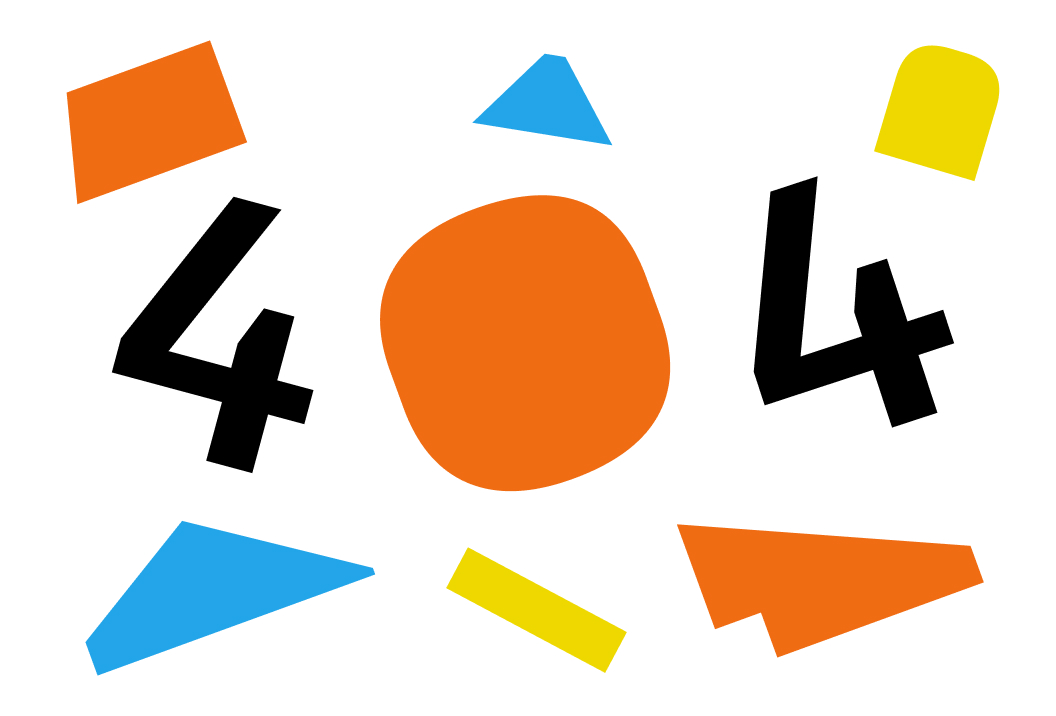
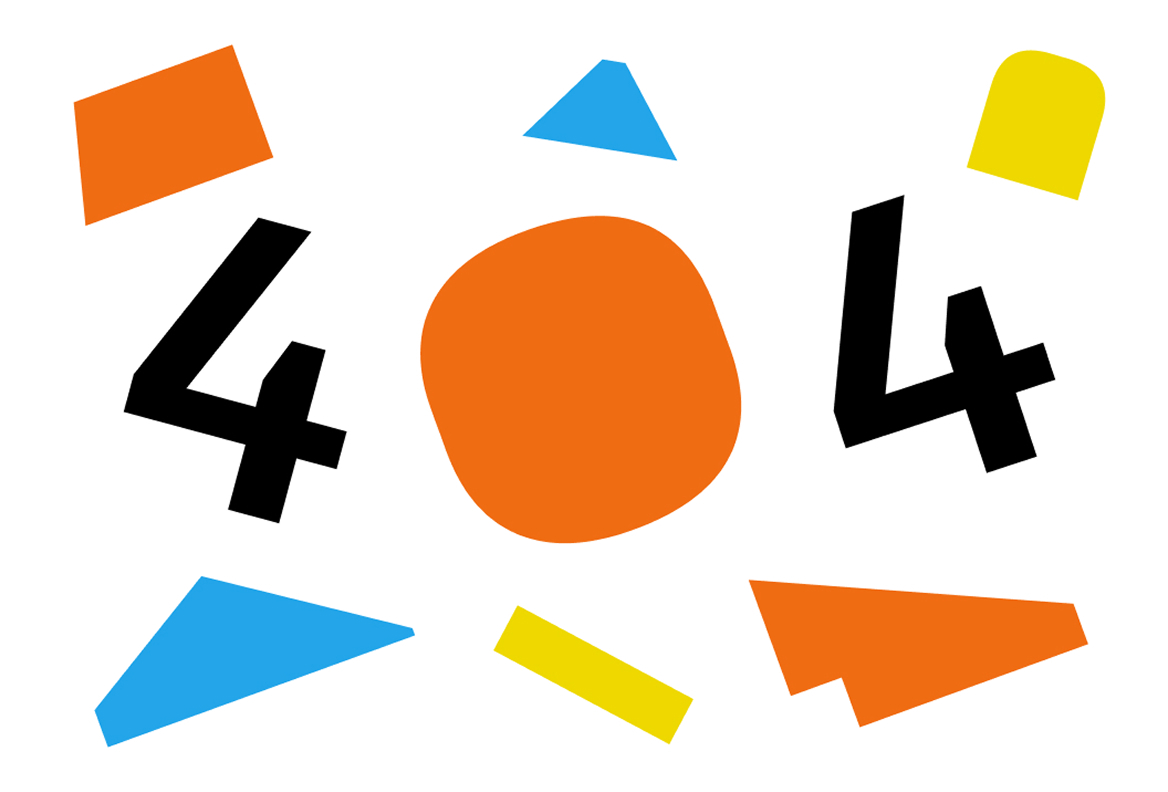
Address 404 page PR feedback

diff --git a/foundation_cms/templates/404.html b/foundation_cms/templates/404.html
@@ -11,7 +11,6 @@
 {% block body_class %}template-404{% endblock body_class %}
 {% block breadcrumbs %}{% endblock breadcrumbs %}
 {% block content %}
-    {% get_current_language as lang_code %}
     <main class="error-404">
         <div class="grid-container">
             <div class="grid-x grid-margin-x error-404__layout">
@@ -19,10 +18,10 @@
                     <h1 class="error-404__heading">{% trans "Error 404" %}</h1>
                     <p class="error-404__copy body-text-large">{% trans "Uh oh! We’re sorry, this page does not exist." %}</p>
                     {% translate "Back to our homepage" as localized_homepage_label %}
-                    {% include "patterns/components/button.html" with url="/"|add:lang_code|add:"/" label=localized_homepage_label button_style="btn-secondary" classnames="error-404__button" %}
+                    {% include "patterns/components/button.html" with url=homepage_url label=localized_homepage_label button_style="btn-secondary" classnames="error-404__button" %}
                 </div>
                 <div class="cell small-12 medium-6 error-404__media" aria-hidden="true">
-                    <img src="{% static 'foundation_cms/_images/404.jpg' %}" alt="" width="1056" height="716">
+                    <img src="{% static 'foundation_cms/_images/404.jpg' %}" alt="" width="1168" height="792">
                 </div>
             </div>
         </div>

diff --git a/foundation_cms/legacy_apps/templates/partials/404.html b/foundation_cms/legacy_apps/templates/partials/404.html
@@ -8,7 +8,7 @@
             </div>
             <p class="h5-black">{% trans "We’re sorry, this page does not exist." %}</p>
             <p>{% blocktrans with email=email|default:'[email redacted]' %}<a href="mailto:{{ email }}">Contact us</a> or ...{% endblocktrans %}</p>
-            <a href="/" class="tw-btn-secondary">{% trans "Visit our homepage" %}</a>
+            <a href="/" class="tw-btn-secondary">{% trans "Back to our homepage" %}</a>
         </div>
         <div class="col-md-5 pt-5 p-md-5 flex-first flex-md-last">
             <img src="{% static "legacy_apps/_images/404.svg" %}" class="w-100" alt="Sad anthropomorphized 404">

diff --git a/frontend/redesign/build-css.js b/frontend/redesign/build-css.js
@@ -10,12 +10,12 @@ const entries = [
   // List of base .scss file names located in `inDir` (omit the .scss extension)
   "redesign_fallback",
   "redesign_migrated_content",
+  "pages/404",
   "pages/campaign_page",
   "pages/expert_directory_page",
   "pages/expert_hub_page",
   "pages/gallery_hub/gallery_page",
   "pages/home_page",
-  "pages/404",
   "pages/maintenance",
   "pages/project_page",
   "pages/search_page",

diff --git a/foundation_cms/legacy_apps/wagtailpages/views.py b/foundation_cms/legacy_apps/wagtailpages/views.py
@@ -25,7 +25,9 @@ def custom404_view(request, exception):
         html = render(request, "mozfest/404.html")
 
     else:
-        html = render(request, "404.html")
+        lang_code = getattr(request, "LANGUAGE_CODE", None) or ""
+        homepage_url = f"/{lang_code}/" if lang_code else "/"
+        html = render(request, "404.html", {"homepage_url": homepage_url})
 
     return HttpResponseNotFound(html.content)
 